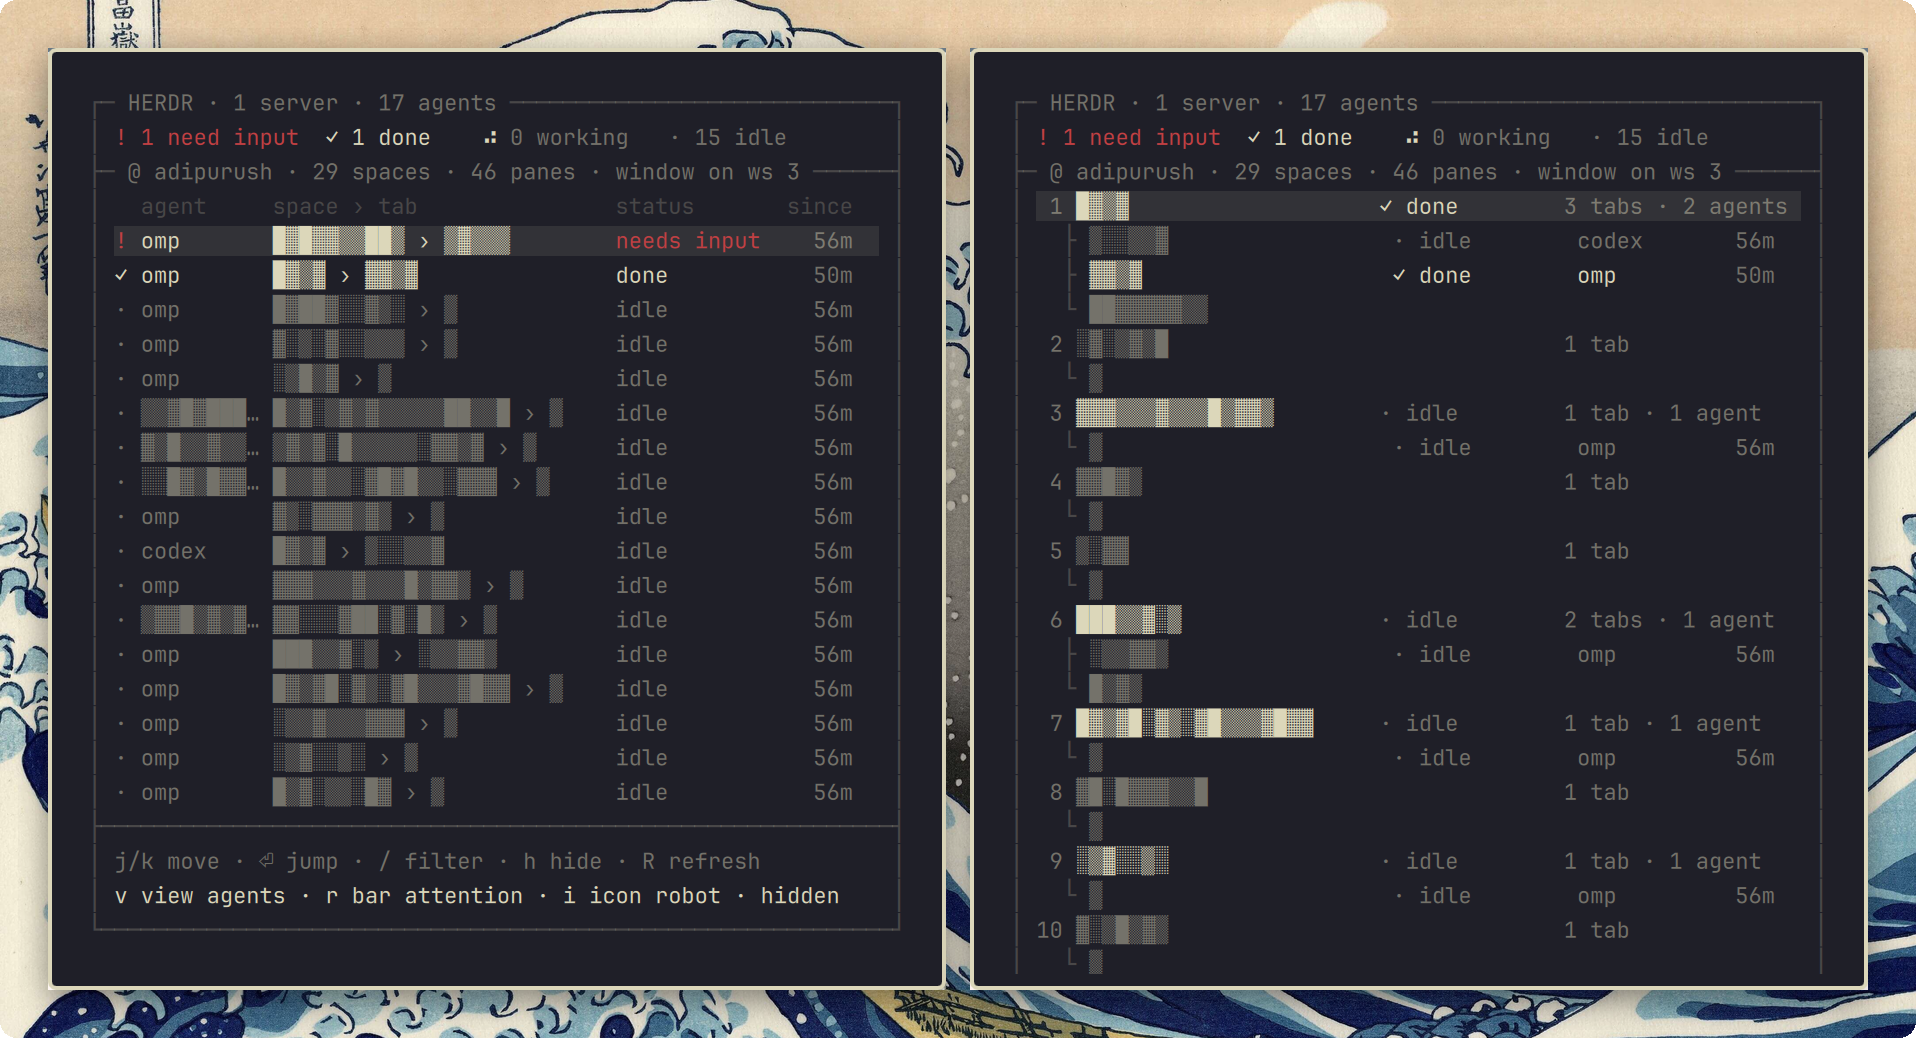
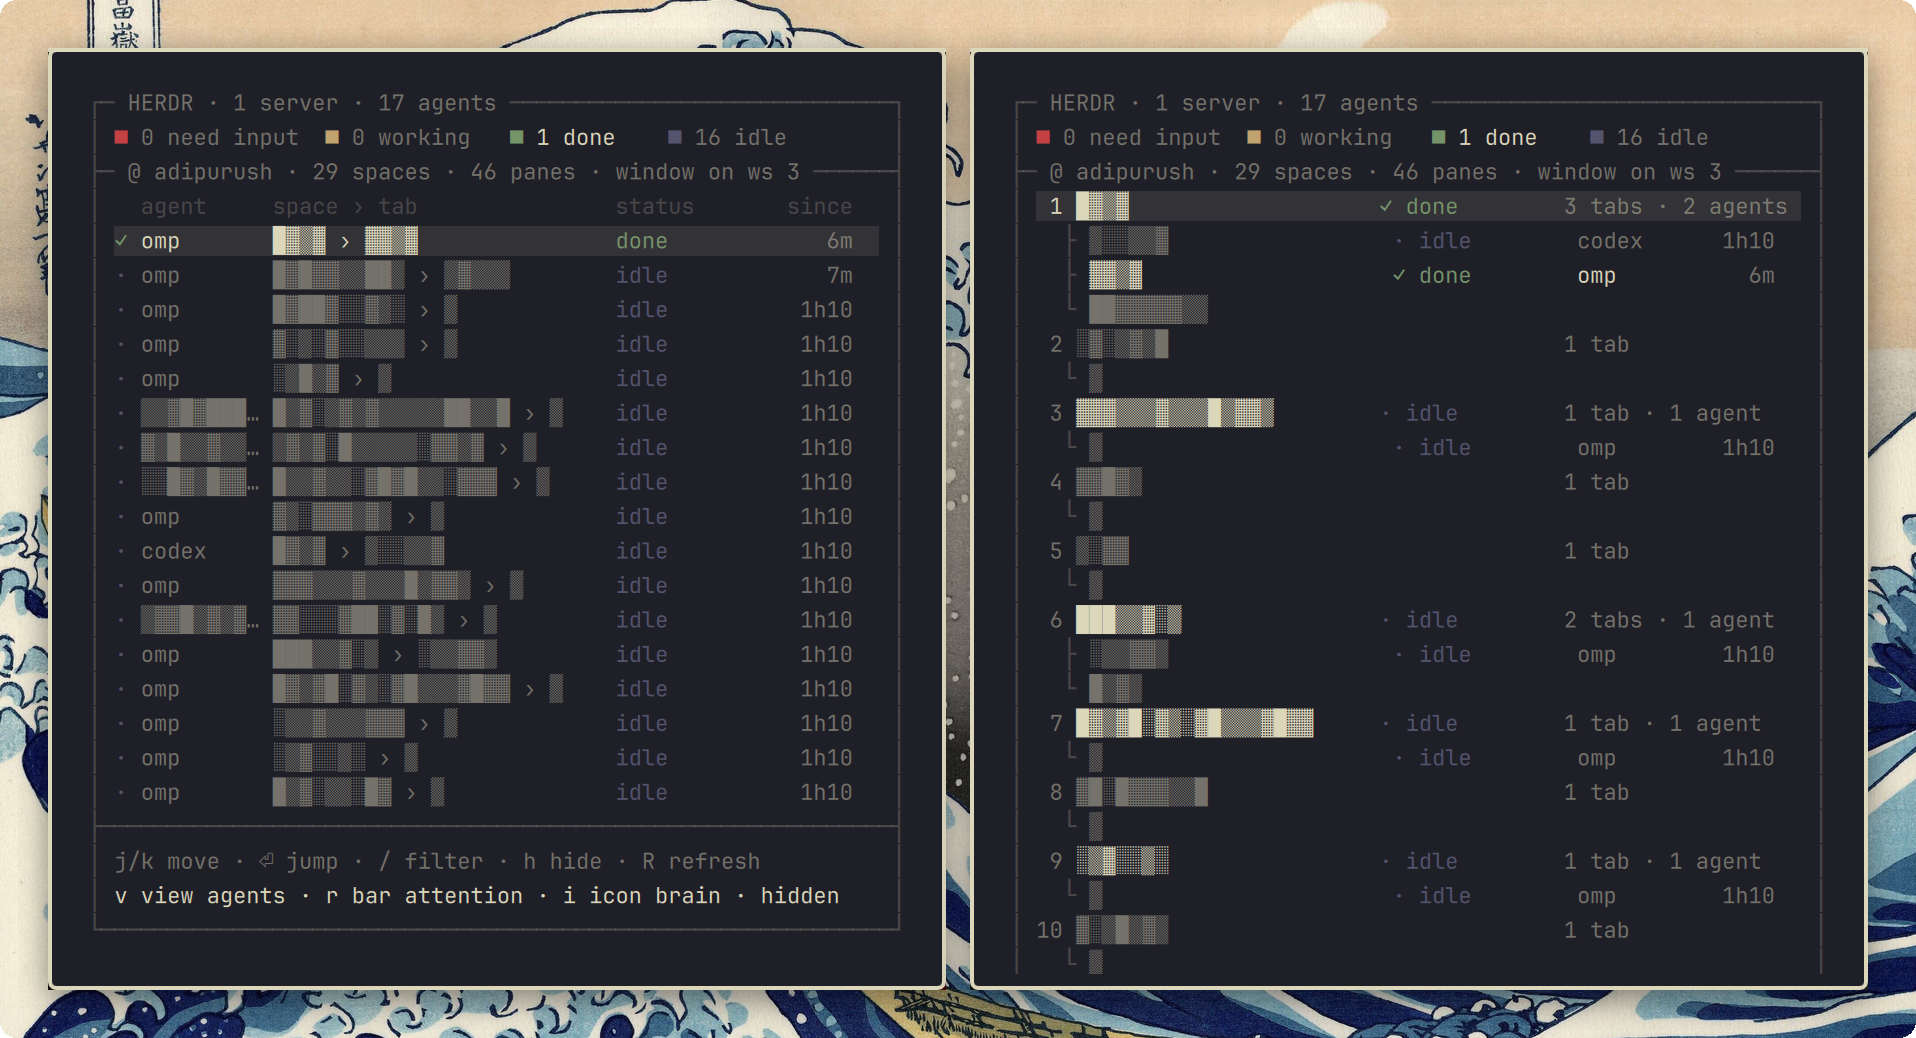
Traffic lights in the bar and panel, theme palette colours

diff --git a/Widget.qml b/Widget.qml
@@ -61,6 +61,29 @@ Panel {
   readonly property color hilite: Qt.rgba(fg.r, fg.g, fg.b, 0.10)
   readonly property string fontFamily: bar ? bar.fontFamily : Style.font.family
 
+  // Traffic lights: red / yellow / green from the theme's colors.toml (the
+  // shell only exposes foreground/accent/urgent), muted grey for idle.
+  property var palette: ({})
+  readonly property color red: palette.red || urgent
+  readonly property color yellow: palette.yellow || accent
+  readonly property color green: palette.green || accent
+  readonly property color grey: Color.muted || dim
+  FileView {
+    path: Quickshell.env("HOME") + "/.local/state/omarchy/current/theme/colors.toml"
+    watchChanges: true
+    printErrors: false
+    onFileChanged: reload()
+    onLoaded: root.parsePalette(text())
+  }
+  function parsePalette(content) {
+    var out = ({}), lines = String(content || "").split("\n")
+    for (var i = 0; i < lines.length; i++) {
+      var m = lines[i].match(/^\s*([a-z_]+)\s*=\s*"(#[0-9a-fA-F]{6,8})"/)
+      if (m) out[m[1]] = m[2]
+    }
+    root.palette = out
+  }
+
   // ---------------------------------------------------------------- state
   property var snap: null
   property bool scrub: false
@@ -93,7 +116,7 @@ Panel {
     return st === "blocked" ? "!" : st === "done" ? "✓" : st === "working" ? "⠴" : st === "idle" ? "·" : st === "unknown" ? "?" : "—"
   }
   function statusColor(st) {
-    return st === "blocked" ? urgent : st === "done" ? accent : st === "working" ? fg : dim
+    return st === "blocked" ? red : st === "done" ? green : st === "working" ? yellow : st === "idle" ? grey : dim
   }
   function statusText(st) {
     return st === "blocked" ? "needs input" : st === "done" ? "done" : st === "working" ? "working" : st === "idle" ? "idle" : st === "unknown" ? "unknown" : ""
@@ -169,6 +192,7 @@ Panel {
     function scrub(): string { root.scrub = !root.scrub; return root.scrub ? "scrubbed" : "clear" }
     function view(): string { root.toggleView(); return root.viewMode }
     function filter(text: string): string { root.filter = text; return root.filter }
+    function metric(name: string): string { root.barMetric = name; return root.barMetric }
     function metrics(): string {
       return JSON.stringify({ lines: root.rows.length, textImplicit: tuiText.implicitHeight, textHeight: tuiText.height,
                               flickContent: panelFlick.contentHeight, flickHeight: panelFlick.height, panelContent: panel.contentHeight })
@@ -290,10 +314,10 @@ Panel {
     }
 
     // Summary: one cell per status, blocked first.
-    out += line(cat(cell("!", 1, urgent), gap(1), cell((c.blocked || 0) + " need input", 13, (c.blocked || 0) > 0 ? urgent : dim), gap(1),
-                    cell("✓", 1, accent), gap(1), cell((c.done || 0) + " done", 9, (c.done || 0) > 0 ? accent : dim), gap(1),
-                    cell("⠴", 1, fg), gap(1), cell((c.working || 0) + " working", 11, (c.working || 0) > 0 ? fg : dim), gap(1),
-                    cell("·", 1, dim), gap(1), cell((c.idle || 0) + " idle", 9, dim)))
+    out += line(cat(cell("■", 1, red), gap(1), cell((c.blocked || 0) + " need input", 13, (c.blocked || 0) > 0 ? fg : dim), gap(1),
+                    cell("■", 1, yellow), gap(1), cell((c.working || 0) + " working", 11, (c.working || 0) > 0 ? fg : dim), gap(1),
+                    cell("■", 1, green), gap(1), cell((c.done || 0) + " done", 9, (c.done || 0) > 0 ? fg : dim), gap(1),
+                    cell("■", 1, grey), gap(1), cell((c.idle || 0) + " idle", 9, dim)))
 
     var jumpIdx = 0
     for (var s = 0; s < servers.length; s++) {
@@ -464,17 +488,21 @@ Panel {
   }
 
   // ---------------------------------------------------------------- bar
-  readonly property string barText: {
-    if (!snap || barMetric === "none") return ""
-    var c = counts, parts = []
-    if ((c.blocked || 0) > 0) parts.push("!" + c.blocked)
-    if ((c.done || 0) > 0) parts.push("✓" + c.done)
-    if (barMetric === "all") {
-      if ((c.working || 0) > 0) parts.push("⠴" + c.working)
-      if ((c.idle || 0) > 0) parts.push("·" + c.idle)
+  // Lights, top to bottom like a traffic light. Icon-only mode stacks the
+  // lit ones beside the icon; the number modes give each its own count.
+  readonly property var lightOrder: ["blocked", "working", "done", "idle"]
+  function lightsFor(keys) {
+    var out = []
+    for (var i = 0; i < lightOrder.length; i++) {
+      var k = lightOrder[i]
+      if (keys.indexOf(k) >= 0 && (counts[k] || 0) > 0) out.push({ key: k, count: counts[k], color: statusColor(k) })
     }
-    return parts.join(" ")
+    return out
   }
+  readonly property var stackLights: snap ? lightsFor(["blocked", "working", "done"]) : []
+  readonly property var comboLights: !snap || barMetric === "none" ? [] :
+    lightsFor(barMetric === "all" ? ["blocked", "working", "done", "idle"] : ["blocked", "done"])
+  readonly property int dot: Math.round(Style.font.caption * 0.5)
   readonly property string barTooltip: {
     var c = counts
     if (!snap) return "Omaherdr"
@@ -489,23 +517,55 @@ Panel {
     id: row
     anchors.centerIn: parent
 
+    // Icon-only mode: a vertical stack of the lit lights, left of the icon.
+    Item {
+      id: stack
+      visible: root.barMetric === "none" && root.stackLights.length > 0 && !(root.bar && root.bar.vertical)
+      width: visible ? root.dot + Style.space(4) : 0
+      height: row.height
+      Column {
+        anchors.verticalCenter: parent.verticalCenter
+        spacing: 2
+        Repeater {
+          model: root.stackLights
+          Rectangle { width: root.dot; height: root.dot; radius: 1; color: modelData.color }
+        }
+      }
+    }
+
     BarIconButton {
       id: button
       bar: root.bar
       text: root.barIcon
-      active: root.alarming
       onPressed: function(buttonCode) { root.barPressed(buttonCode) }
     }
 
-    Text {
+    // Number modes: one light and its count per state, spaced to scan.
+    Item {
       id: metric
-      anchors.verticalCenter: parent.verticalCenter
-      visible: !(root.bar && root.bar.vertical) && root.barText !== ""
-      text: root.barText
-      color: root.alarming ? root.urgent : (root.attention ? root.accent : (root.bar ? root.bar.barForeground : root.fg))
-      font.family: root.fontFamily
-      font.pixelSize: Style.font.caption
-      rightPadding: Style.space(6)
+      visible: !(root.bar && root.bar.vertical) && root.comboLights.length > 0
+      width: visible ? combos.width + Style.space(6) : 0
+      height: row.height
+
+      Row {
+        id: combos
+        anchors.verticalCenter: parent.verticalCenter
+        spacing: Style.space(8)
+        Repeater {
+          model: root.comboLights
+          Row {
+            spacing: Style.space(4)
+            Rectangle { anchors.verticalCenter: parent.verticalCenter; width: root.dot; height: root.dot; radius: 1; color: modelData.color }
+            Text {
+              anchors.verticalCenter: parent.verticalCenter
+              text: modelData.count
+              color: root.bar ? root.bar.barForeground : root.fg
+              font.family: root.fontFamily
+              font.pixelSize: Style.font.caption
+            }
+          }
+        }
+      }
 
       MouseArea {
         anchors.fill: parent

diff --git a/README.md b/README.md
@@ -24,7 +24,7 @@ Nothing to configure. Omaherdr finds every `herdr` you are attached to from this
 
 ## Use
 
-The bar shows the icon, plus `!N` agents waiting for input and `✓N` agents that finished while you were elsewhere. Nothing beside the icon means nothing needs you. Click the icon or the counts to open the panel.
+The bar shows the icon with traffic lights: red for agents waiting for input, yellow for working, green for done, grey for idle (colours come from your theme). By default each lit state gets a light and its count (`attention` = red and green only; `all` adds yellow and grey); in icon-only mode the lit lights stack beside the icon. No lights means nothing needs you. Click the icon or the counts to open the panel.
 
 | key | |
 |---|---|
